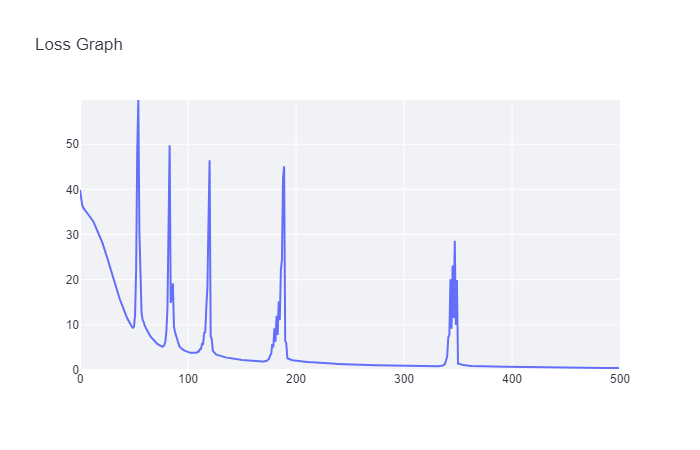
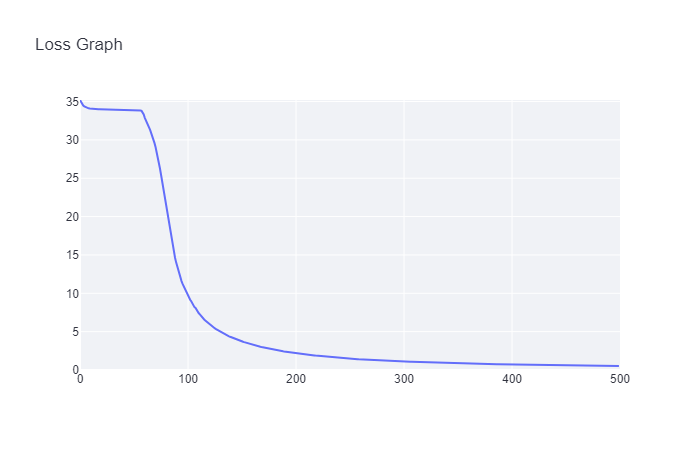
update the README.md with new plots

diff --git a/README.md b/README.md
@@ -26,65 +26,68 @@ The files that will be synced are:
 - Number of epochs: 500
 - Size of hidden layer: 2
 
+#### Time per epoch: 0.141s
+
 #### Logs:
 
 ```
 Epoch: 0/500, loss: 0, correct: 0
-Epoch: 10/500, loss: 34.07759702346554, correct: 31
-Epoch: 20/500, loss: 29.213990715006183, correct: 38
-Epoch: 30/500, loss: 21.72410433681779, correct: 45
-Epoch: 40/500, loss: 14.259450599149446, correct: 48
-Epoch: 50/500, loss: 9.355333958596026, correct: 47
-Epoch: 60/500, loss: 10.623331647564626, correct: 50
-Epoch: 70/500, loss: 6.364572558053164, correct: 49
-Epoch: 80/500, loss: 6.2676794538016285, correct: 47
-Epoch: 90/500, loss: 7.536980131789384, correct: 47
-Epoch: 100/500, loss: 4.0637240677476125, correct: 49
-Epoch: 110/500, loss: 4.070570614983694, correct: 48
-Epoch: 120/500, loss: 33.21050515009908, correct: 36
-Epoch: 130/500, loss: 3.1685447526044324, correct: 50
-Epoch: 140/500, loss: 2.6016205167091, correct: 50
-Epoch: 150/500, loss: 2.2602400332594628, correct: 50
-Epoch: 160/500, loss: 2.0197329315837615, correct: 50
-Epoch: 170/500, loss: 1.8698553875457076, correct: 50
-Epoch: 180/500, loss: 4.987217394497048, correct: 47
-Epoch: 190/500, loss: 45.08860569593021, correct: 37
-Epoch: 200/500, loss: 2.1037007890034944, correct: 50
-Epoch: 210/500, loss: 1.8123066093991762, correct: 50
-Epoch: 220/500, loss: 1.6113436065239282, correct: 50
-Epoch: 230/500, loss: 1.4572929518037956, correct: 50
-Epoch: 240/500, loss: 1.3338769717261507, correct: 50
-Epoch: 250/500, loss: 1.2315836571157641, correct: 50
-Epoch: 260/500, loss: 1.144433389267888, correct: 50
-Epoch: 270/500, loss: 1.0687470859212727, correct: 50
-Epoch: 280/500, loss: 1.0021852632170973, correct: 50
-Epoch: 290/500, loss: 0.9429847595481796, correct: 50
-Epoch: 300/500, loss: 0.8898429818108518, correct: 50
-Epoch: 310/500, loss: 0.841955760785119, correct: 50
-Epoch: 320/500, loss: 0.8003118635256319, correct: 50
-Epoch: 330/500, loss: 0.7897396399140534, correct: 50
-Epoch: 340/500, loss: 2.143757938865615, correct: 49
-Epoch: 350/500, loss: 19.93678543608651, correct: 46
-Epoch: 360/500, loss: 0.9541284717906129, correct: 50
-Epoch: 370/500, loss: 0.8162126021185898, correct: 50
-Epoch: 380/500, loss: 0.7568298244150059, correct: 50
-Epoch: 390/500, loss: 0.7165038367096478, correct: 50
-Epoch: 400/500, loss: 0.681113677051323, correct: 50
-Epoch: 410/500, loss: 0.648323040435436, correct: 50
-Epoch: 420/500, loss: 0.6180164606100798, correct: 50
-Epoch: 430/500, loss: 0.5899696997386714, correct: 50
-Epoch: 440/500, loss: 0.5639737520231339, correct: 50
-Epoch: 450/500, loss: 0.5398396725134172, correct: 50
-Epoch: 460/500, loss: 0.5173933240631604, correct: 50
-Epoch: 470/500, loss: 0.49647468829345764, correct: 50
-Epoch: 480/500, loss: 0.4766255835301506, correct: 50
-Epoch: 490/500, loss: 0.4587128109276982, correct: 50
-Epoch: 500/500, loss: 0.44189558429595965, correct: 50
+Epoch: 10/500, loss: 34.08047989283159, correct: 29
+Epoch: 20/500, loss: 33.97983855363779, correct: 29
+Epoch: 30/500, loss: 33.964277343235956, correct: 29
+Epoch: 40/500, loss: 33.95511958516878, correct: 29
+Epoch: 50/500, loss: 33.94260200369112, correct: 29
+Epoch: 60/500, loss: 33.30567444140289, correct: 29
+Epoch: 70/500, loss: 29.574015517323982, correct: 29
+Epoch: 80/500, loss: 21.93662835389461, correct: 40
+Epoch: 90/500, loss: 14.03204872904695, correct: 47
+Epoch: 100/500, loss: 9.97104536427194, correct: 49
+Epoch: 110/500, loss: 7.652929947294046, correct: 50
+Epoch: 120/500, loss: 6.069313684369979, correct: 50
+Epoch: 130/500, loss: 5.0613905823814385, correct: 50
+Epoch: 140/500, loss: 4.330344976121727, correct: 50
+Epoch: 150/500, loss: 3.7740722074468493, correct: 50
+Epoch: 160/500, loss: 3.333679946261419, correct: 50
+Epoch: 170/500, loss: 2.9753235422624402, correct: 50
+Epoch: 180/500, loss: 2.677803666140006, correct: 50
+Epoch: 190/500, loss: 2.4267717134153446, correct: 50
+Epoch: 200/500, loss: 2.2127204414873303, correct: 50
+Epoch: 210/500, loss: 2.028207979192048, correct: 50
+Epoch: 220/500, loss: 1.8679984196272679, correct: 50
+Epoch: 230/500, loss: 1.7277985658052437, correct: 50
+Epoch: 240/500, loss: 1.6044222482952848, correct: 50
+Epoch: 250/500, loss: 1.495228824507075, correct: 50
+Epoch: 260/500, loss: 1.3981296433923354, correct: 50
+Epoch: 270/500, loss: 1.3113178853159075, correct: 50
+Epoch: 280/500, loss: 1.23654160468516, correct: 50
+Epoch: 290/500, loss: 1.1679002267479033, correct: 50
+Epoch: 300/500, loss: 1.1049081131276957, correct: 50
+Epoch: 310/500, loss: 1.0494943781888686, correct: 50
+Epoch: 320/500, loss: 0.9987321037590857, correct: 50
+Epoch: 330/500, loss: 0.9520838718503914, correct: 50
+Epoch: 340/500, loss: 0.9091010745882862, correct: 50
+Epoch: 350/500, loss: 0.8694020256962041, correct: 50
+Epoch: 360/500, loss: 0.8326327491400879, correct: 50
+Epoch: 370/500, loss: 0.7985094153596356, correct: 50
+Epoch: 380/500, loss: 0.766784670095494, correct: 50
+Epoch: 390/500, loss: 0.7372232619302964, correct: 50
+Epoch: 400/500, loss: 0.7096257812443727, correct: 50
+Epoch: 410/500, loss: 0.6838235010623949, correct: 50
+Epoch: 420/500, loss: 0.6596254049155421, correct: 50
+Epoch: 430/500, loss: 0.6369296577919257, correct: 50
+Epoch: 440/500, loss: 0.615595434555017, correct: 50
+Epoch: 450/500, loss: 0.5955168957775472, correct: 50
+Epoch: 460/500, loss: 0.5765711098111501, correct: 50
+Epoch: 470/500, loss: 0.558694016334377, correct: 50
+Epoch: 480/500, loss: 0.5417927750679408, correct: 50
+Epoch: 490/500, loss: 0.525791192811307, correct: 50
+Epoch: 500/500, loss: 0.5106279154029487, correct: 50
 ```
 
 #### Plots:
 
-![Plot](simple.png)
+![Plot](simple_sc.png)
+![Plot](simple_loss.png)
 
 ### Diag:
 
@@ -93,6 +96,8 @@ Epoch: 500/500, loss: 0.44189558429595965, correct: 50
 - Learning rate: 0.5
 - Number of epochs: 500
 - Size of hidden layer: 2
+
+#### Time per epoch: 0.096s
 
 #### Logs:
 
@@ -158,49 +163,72 @@ Epoch: 500/500, loss: 1.0700074888661857, correct: 50
 
 #### Hyperparameters:
 
-- Learning rate: 0.5
-- Number of epochs: 300
+- Learning rate: 0.1
+- Number of epochs: 500
 - Size of hidden layer: 8
+
+#### Time per epoch: 0.690s
 
 #### Logs:
 
 ```
-Epoch: 0/300, loss: 0, correct: 0
-Epoch: 10/300, loss: 29.359173637040957, correct: 35
-Epoch: 20/300, loss: 27.8527866309571, correct: 35
-Epoch: 30/300, loss: 30.380726953558664, correct: 31
-Epoch: 40/300, loss: 28.98643454913285, correct: 31
-Epoch: 50/300, loss: 27.072014299344904, correct: 35
-Epoch: 60/300, loss: 26.34485331189513, correct: 36
-Epoch: 70/300, loss: 25.994689137005988, correct: 36
-Epoch: 80/300, loss: 23.943555701186924, correct: 37
-Epoch: 90/300, loss: 20.972469515445496, correct: 38
-Epoch: 100/300, loss: 19.798323146562225, correct: 39
-Epoch: 110/300, loss: 17.536245113914994, correct: 40
-Epoch: 120/300, loss: 15.508182428624234, correct: 43
-Epoch: 130/300, loss: 13.671779519842868, correct: 45
-Epoch: 140/300, loss: 13.038449960011626, correct: 45
-Epoch: 150/300, loss: 11.004523917992179, correct: 45
-Epoch: 160/300, loss: 10.421208106123858, correct: 45
-Epoch: 170/300, loss: 6.915372680674845, correct: 48
-Epoch: 180/300, loss: 5.96357342785572, correct: 48
-Epoch: 190/300, loss: 5.261896326093942, correct: 48
-Epoch: 200/300, loss: 7.181401347577988, correct: 47
-Epoch: 210/300, loss: 5.628416339583532, correct: 48
-Epoch: 220/300, loss: 7.051113624863076, correct: 47
-Epoch: 230/300, loss: 3.829099545741122, correct: 49
-Epoch: 240/300, loss: 5.754346563054557, correct: 48
-Epoch: 250/300, loss: 2.5187704858967246, correct: 50
-Epoch: 260/300, loss: 2.5789128391095475, correct: 50
-Epoch: 270/300, loss: 15.008697558552734, correct: 45
-Epoch: 280/300, loss: 2.170444613479042, correct: 50
-Epoch: 290/300, loss: 1.8024524247525675, correct: 50
-Epoch: 300/300, loss: 1.640017610900474, correct: 50
+Epoch: 0/500, loss: 0, correct: 0
+Epoch: 10/500, loss: 32.65681139065093, correct: 32
+Epoch: 20/500, loss: 30.660573935813076, correct: 35
+Epoch: 30/500, loss: 29.76444160037632, correct: 39
+Epoch: 40/500, loss: 29.01455594228726, correct: 39
+Epoch: 50/500, loss: 28.3626887727733, correct: 39
+Epoch: 60/500, loss: 27.724443444807555, correct: 39
+Epoch: 70/500, loss: 27.029754343858347, correct: 40
+Epoch: 80/500, loss: 26.08069629942736, correct: 41
+Epoch: 90/500, loss: 25.029362486606487, correct: 42
+Epoch: 100/500, loss: 23.993675715195522, correct: 43
+Epoch: 110/500, loss: 23.306163138920592, correct: 43
+Epoch: 120/500, loss: 22.65409468019789, correct: 43
+Epoch: 130/500, loss: 22.02981934775976, correct: 43
+Epoch: 140/500, loss: 21.422080424813558, correct: 43
+Epoch: 150/500, loss: 20.83375575602017, correct: 43
+Epoch: 160/500, loss: 20.254435361288976, correct: 43
+Epoch: 170/500, loss: 19.670728055190374, correct: 43
+Epoch: 180/500, loss: 19.106161600208793, correct: 43
+Epoch: 190/500, loss: 18.540627267484084, correct: 43
+Epoch: 200/500, loss: 17.976375168609415, correct: 43
+Epoch: 210/500, loss: 17.415610129950064, correct: 43
+Epoch: 220/500, loss: 16.85859053307833, correct: 43
+Epoch: 230/500, loss: 16.3128262646246, correct: 43
+Epoch: 240/500, loss: 15.771498024690771, correct: 43
+Epoch: 250/500, loss: 15.23918036935163, correct: 43
+Epoch: 260/500, loss: 14.706772243607439, correct: 43
+Epoch: 270/500, loss: 14.185394155567723, correct: 43
+Epoch: 280/500, loss: 13.674752859186944, correct: 43
+Epoch: 290/500, loss: 13.172045622748154, correct: 43
+Epoch: 300/500, loss: 12.676300159788493, correct: 43
+Epoch: 310/500, loss: 12.199012944188775, correct: 43
+Epoch: 320/500, loss: 11.740055023387324, correct: 44
+Epoch: 330/500, loss: 11.300249897738775, correct: 45
+Epoch: 340/500, loss: 10.881136819237868, correct: 46
+Epoch: 350/500, loss: 10.479084208167206, correct: 46
+Epoch: 360/500, loss: 10.094974465879712, correct: 47
+Epoch: 370/500, loss: 9.729022506573125, correct: 47
+Epoch: 380/500, loss: 9.38124024569567, correct: 47
+Epoch: 390/500, loss: 9.046765678452688, correct: 50
+Epoch: 400/500, loss: 8.729461083981034, correct: 50
+Epoch: 410/500, loss: 8.4292296850216, correct: 50
+Epoch: 420/500, loss: 8.144304924633605, correct: 50
+Epoch: 430/500, loss: 7.876725770605299, correct: 50
+Epoch: 440/500, loss: 7.617284526987465, correct: 50
+Epoch: 450/500, loss: 7.375874605478695, correct: 50
+Epoch: 460/500, loss: 7.1498143806707315, correct: 50
+Epoch: 470/500, loss: 6.93235857652518, correct: 50
+Epoch: 480/500, loss: 6.718759635801301, correct: 50
+Epoch: 490/500, loss: 6.523841359235439, correct: 50
+Epoch: 500/500, loss: 6.341883183080107, correct: 50
 ```
 
 #### Plots:
 
-![Plot](split.png)
+![Plot](split_sc.png)
+![Plot](loss_split.png)
 
 ### XOR:
 
